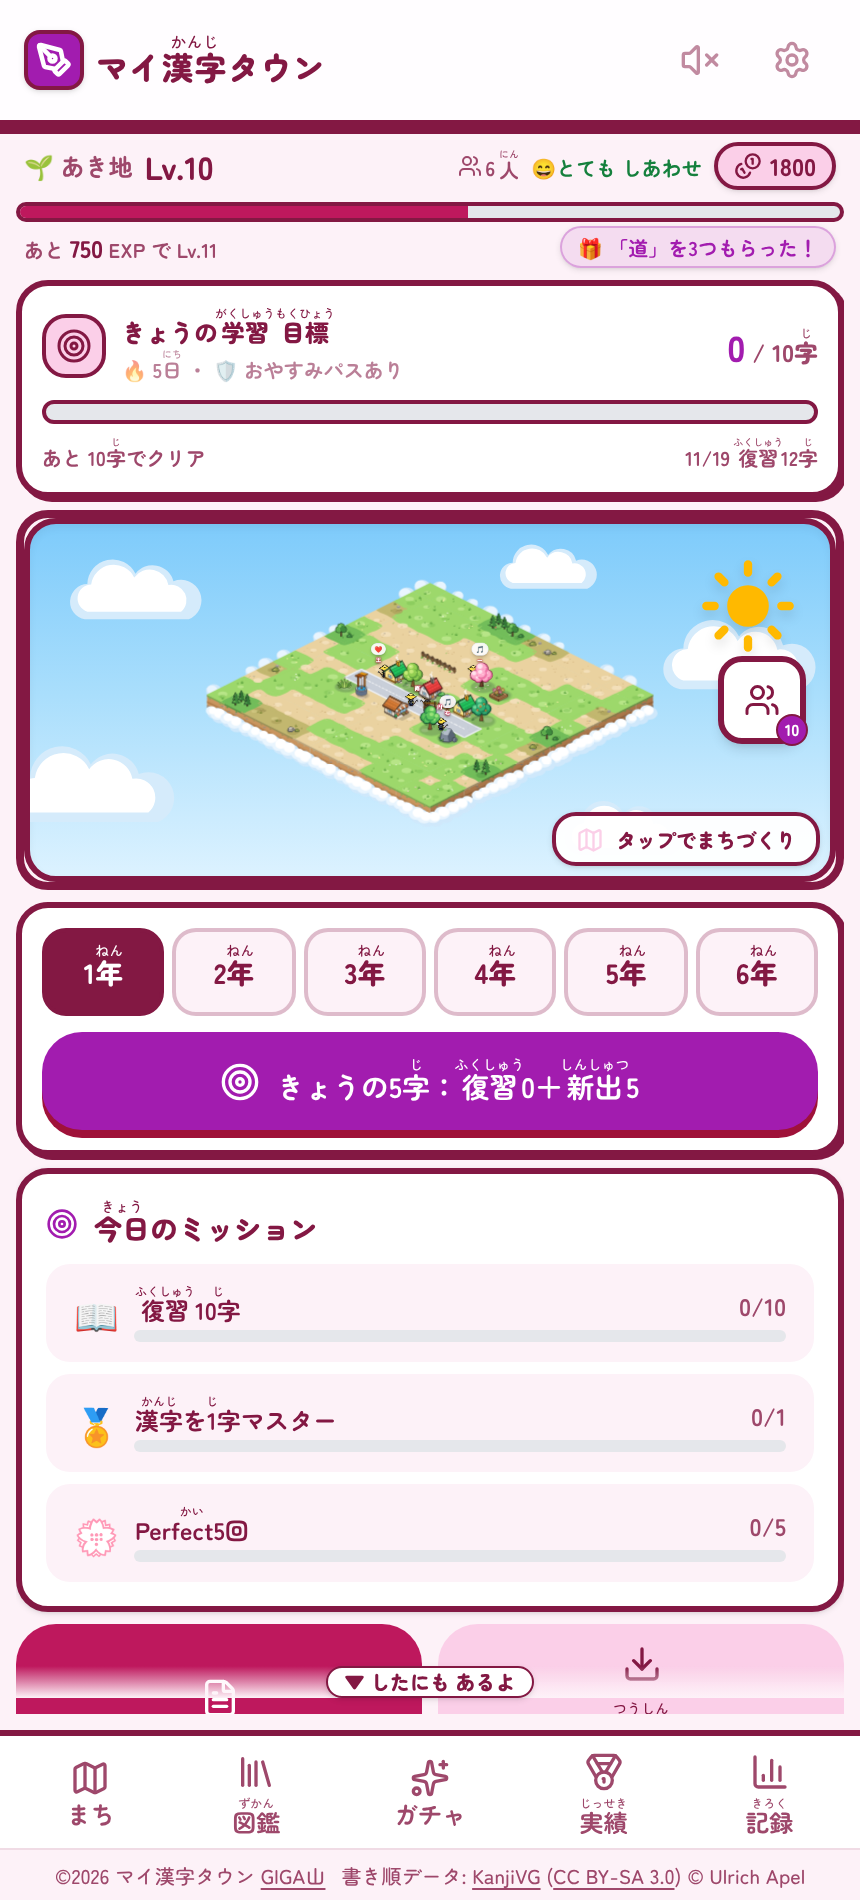
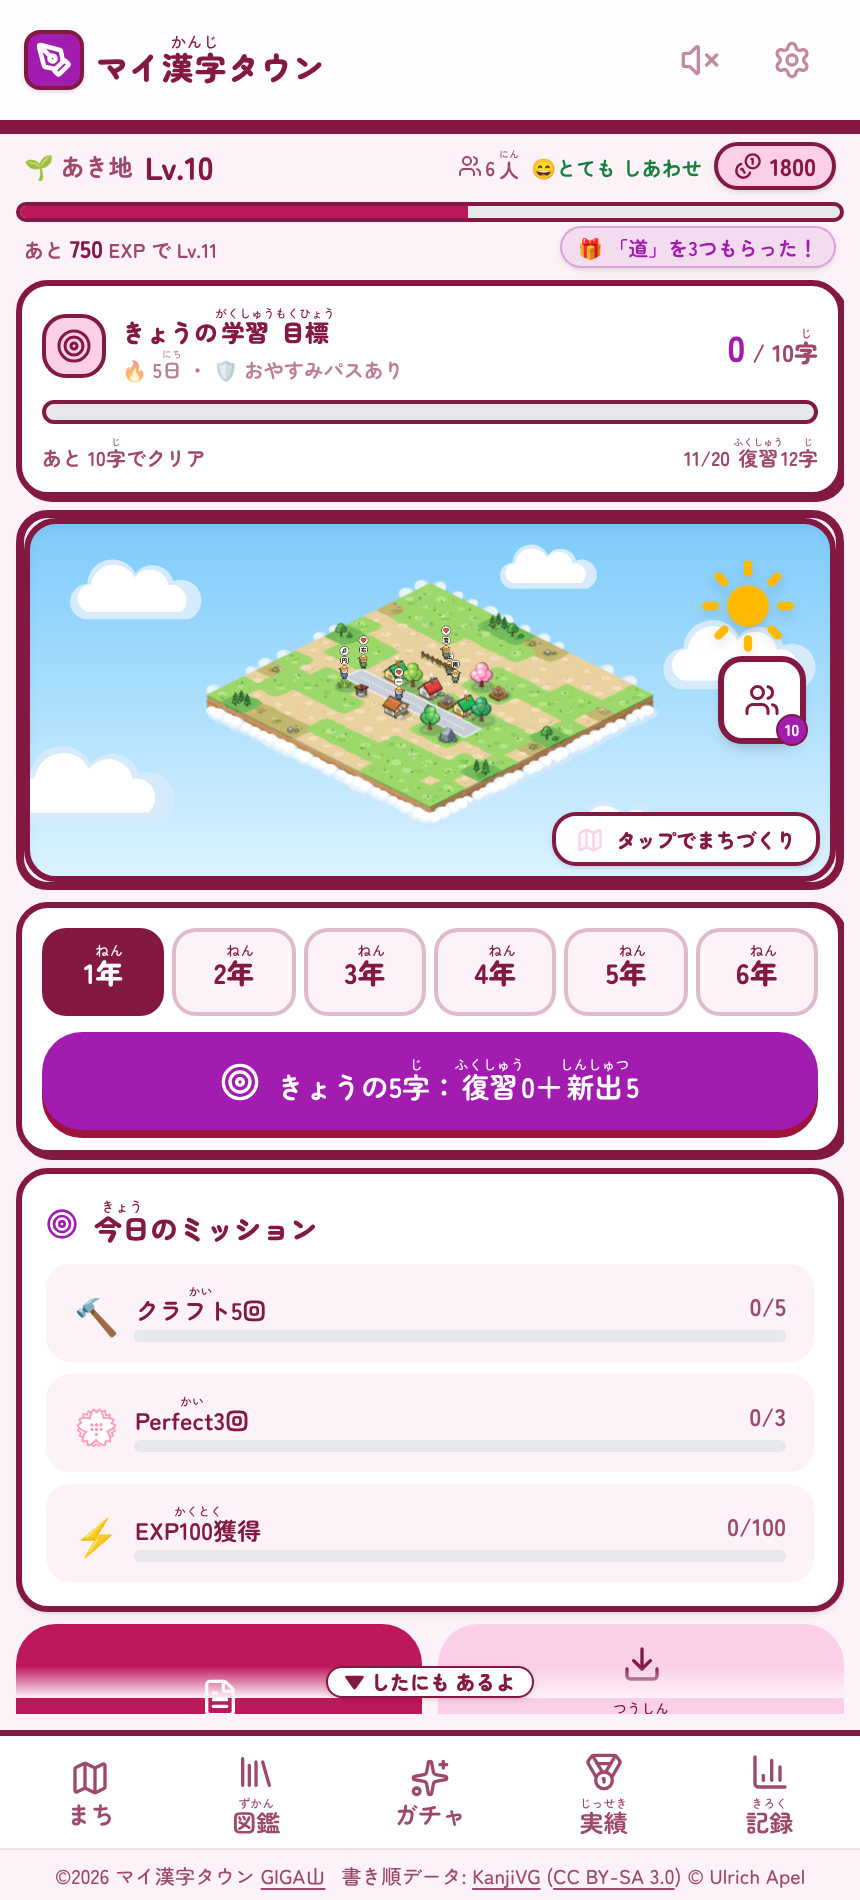
docs: 住民と小さなものの描きなおしを、README とマニュアルの画面写真に入れる
- README: 町の絵の作り（小さなもの 23 種は props-art.js。大きさの決まり・見本の わく・向きの そろえ方・
  住民の絵・座標を書きかえる部品）
- マニュアルの画面写真 4 枚（ホーム・ホームの案内・まちづくり・クラフト）を、新しい絵の町で撮りなおす
  （写っている住民・井戸・ベンチの絵が変わったため）

Claude-Session: https://claude.ai/code/session_01UfLrwAMydVZoaxNbW6V8Hq

diff --git a/README.md b/README.md
@@ -104,16 +104,27 @@
 - 50×50マスのマップ。町は雲の上に浮かぶ島として描き、字を習得するとその字の**住民**が増え、レベルが上がると島（探索範囲）が広がる。
   - 地面（地形・道・水路・田畑・がけ・影）は 1 マスずつ要素を作らず、5×5 マスのかたまりごとに SVG の文字列を作って 1 枚に並べる
     （`src/systems/town-ground.js`・`town-ground-paint.js`・`src/components/town/TerrainLayer.jsx`）。道・水路・田んぼは、となりとつながる形になる。
-  - 建物 69 種の絵は、敷地の座標（右手前 u・左手前 v・高さ z）で組み立てる文字列の絵（`src/data/iso-svg/buildings-art.js`。
-    壁・屋根・窓・木などの部品は `kit.js`）。原点を敷地のまん中にそろえて描くので、置き方はどの建物も同じ決まりになる。
-    建物を足すときは、絵を描いて、足もとの大きさを置き方の表（`src/data/town-item-fit.js` の `KIT_BASE`）に 1 行足す
+  - 建物 69 種と、小さなもの 23 種（井戸・ベンチ・ポスト・街灯・車など）の絵は、敷地の座標（右手前 u・左手前 v・高さ z）で
+    組み立てる文字列の絵（`src/data/iso-svg/buildings-art.js`・`props-art.js`。壁・屋根・窓・木などの部品は `kit.js`）。
+    原点を敷地のまん中にそろえて描くので、置き方はどの絵も同じ決まりになる。
+    絵を足すときは、絵を描いて、足もとの大きさを置き方の表（`src/data/town-item-fit.js` の `KIT_BASE`）に 1 行足す
     （`test/buildings-art.test.js` が、絵と表の食いちがいを見る）。
-  - 井戸・街灯・ベンチなど、前の描き方の小さなものは 1 枚ずつ足もとの位置がちがうので、同じ表の `FIT` に測った値を持つ。
+  - **大きさの決まり**：建物は「1 マス = 8m くらい」で描く。小さなものは ほんとうの大きさの 1.5 倍くらいで描き
+    （ポストが家と同じ大きさにならず、住民が使っておかしくない大きさ）、いちばん高いのはテレビ塔。
+    めやすの数は `props-art.js` のはじめにある。夜のあかりの高さ（`src/systems/town-night-light.js`）は絵に合わせてあり、
+    絵の大きさを変えたら そこも直す（`test/town-night-light.test.js` が見る）。
+  - 橋は水路をまたぐ向きに、道にのせた車・バス・ベンチは道の向きにそろえる。絵は 1 枚で、となりの水路・道が
+    もう一方の向きにのびているときだけ左右をうら返す（`src/systems/town-ground.js` の `turnedToFit`）。
   - 木・花・岩・「小さな家」と建物は、絵を文書に 1 回だけ置いて `<use>` で呼びだす（`nature-art.js`・`house-art.js`・`buildings-art.js`）。
     建物の絵は、はじめて画面に出るときに 1 回だけ作る（`shared.jsx` の `ensureDef`）。
+    町に置くときは足もとが決まった場所に来る枠（`place`）で、もちもの欄・クラフトの見本は絵ぜんたいが収まる枠
+    （`buildingIconBox`）で描く。
   - 絵の中の半透明は、絵を渡すときに `fill-opacity`・`stroke-opacity` へ書きかえる（`flatten-opacity.js`）。
-    図形に `opacity` を書くと、ブラウザがその図形 1 つを別の合成の単位として扱い、建物の多い町で ずらすのが重くなるため。
+    図形に `opacity` や `transform` を書くと、ブラウザがその図形 1 つを別の合成の単位として扱い、建物の多い町で ずらすのが重くなるため。
     絵を描くときは `opacity` と書いてよい（見た目は同じ。`test/flatten-opacity.test.js` が通り道を見る）。
+    絵を回す・小さくするときは `<g transform>` で包まず、座標を書きかえる（`scale-art.js`）。
+  - 住民の絵は、職業 6 種 × 色ちがい 4 通りの ちびキャラ（`src/data/villager-art.js`・`src/components/town/VillagerArt.jsx`）。
+    頭の上の名札に その住民の漢字を出す。色ちがいは住民の id から決まるので、同じ住民は いつも同じ姿になる。
   - 拡大縮小は画面の 1 点を基点にする（ボタン・ピンチ・ホイール。`zoomAround`）。置く前に、足もとの範囲と置けるかどうかを色で出す。
 - **クラフト**（Lv3で解放）：学習中に集まった素材で121種のレシピから建物・加工素材を作る（加工素材8・建物54・強化9・大型10・かざり32・レア8）。
 - **ガチャ**：100コインで1回、10連もある。建物アイテムが手に入る。
